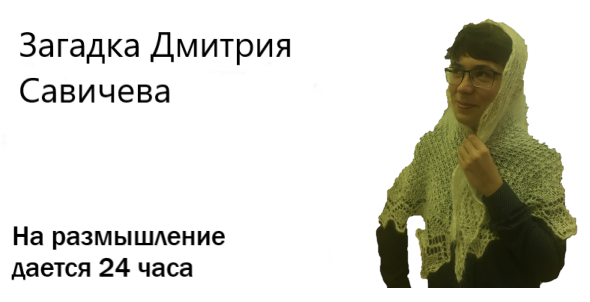
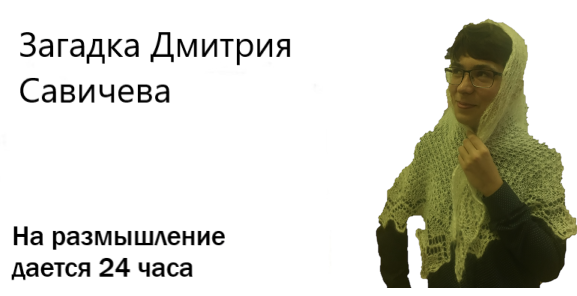
fixed grandma

diff --git a/index.html b/index.html
@@ -271,7 +271,7 @@
                       </div>
                       <div class="aQQmaKmYxsncqMA3oNzKh _1K-NO2hvBJkvG95nIKjJsf ProductCard OCoeOMqCJdPjzC5s_sRgG">
                         <picture class="_2ckYLAtgjzU7M2weBtwsnX">
-                          <source srcset="grandma.png" type="image/png"><img class="XdsB-3U_PVRe_S9Q13DE9" alt="Супер Папа" src="grandma.png"></picture>
+                          <source srcset="grandma.jpg" type="image/jpg"><img class="XdsB-3U_PVRe_S9Q13DE9" alt="Супер Папа" src="grandma.jpg"></picture>
                         <div class="FoiN3cyucijXJhL5N26Aq"><span class="_3lmxM2jhhSjJiv_9ijG2pa">Hit</span>
                           <div class="_2KV30LIsHreEKvhyyLMQWO _1si-lTniw1yftbX7XCPvZ_ _2Bq6hhv2CMEo-bW-pRctv7">
                             <svg width="16" height="16" viewBox="0 0 16 16">
